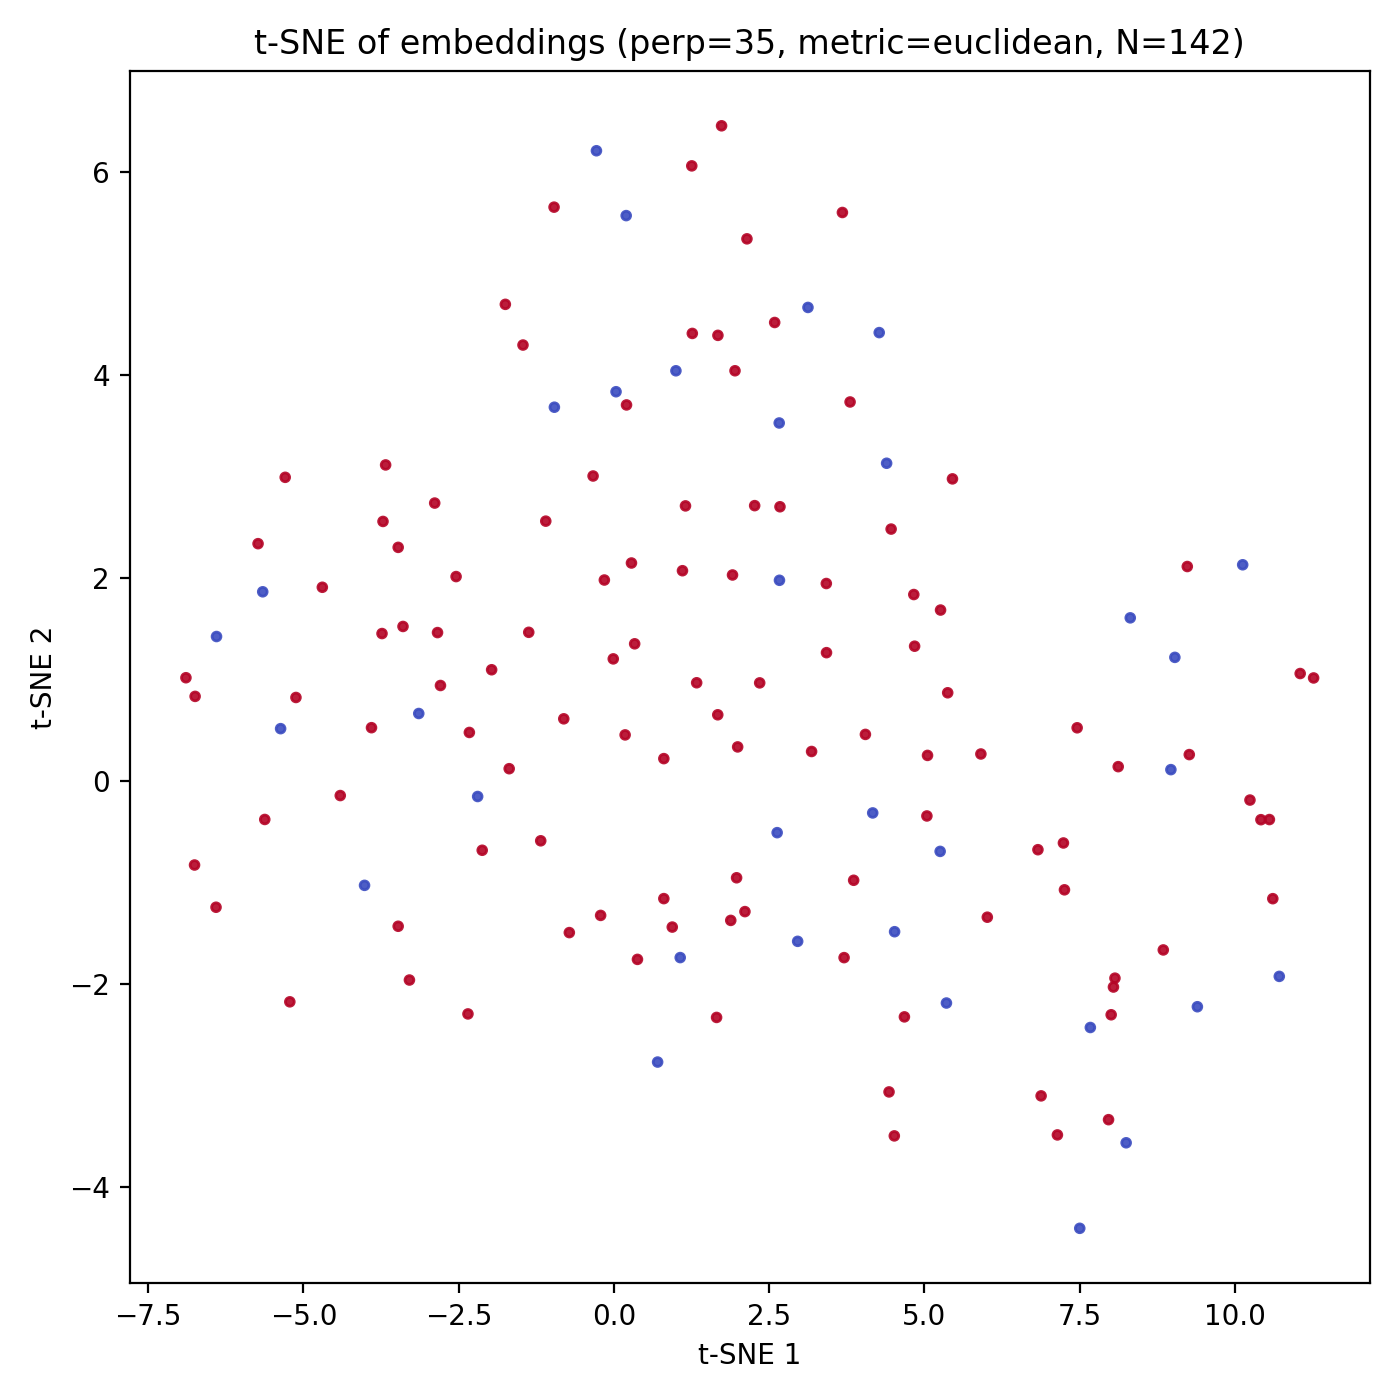
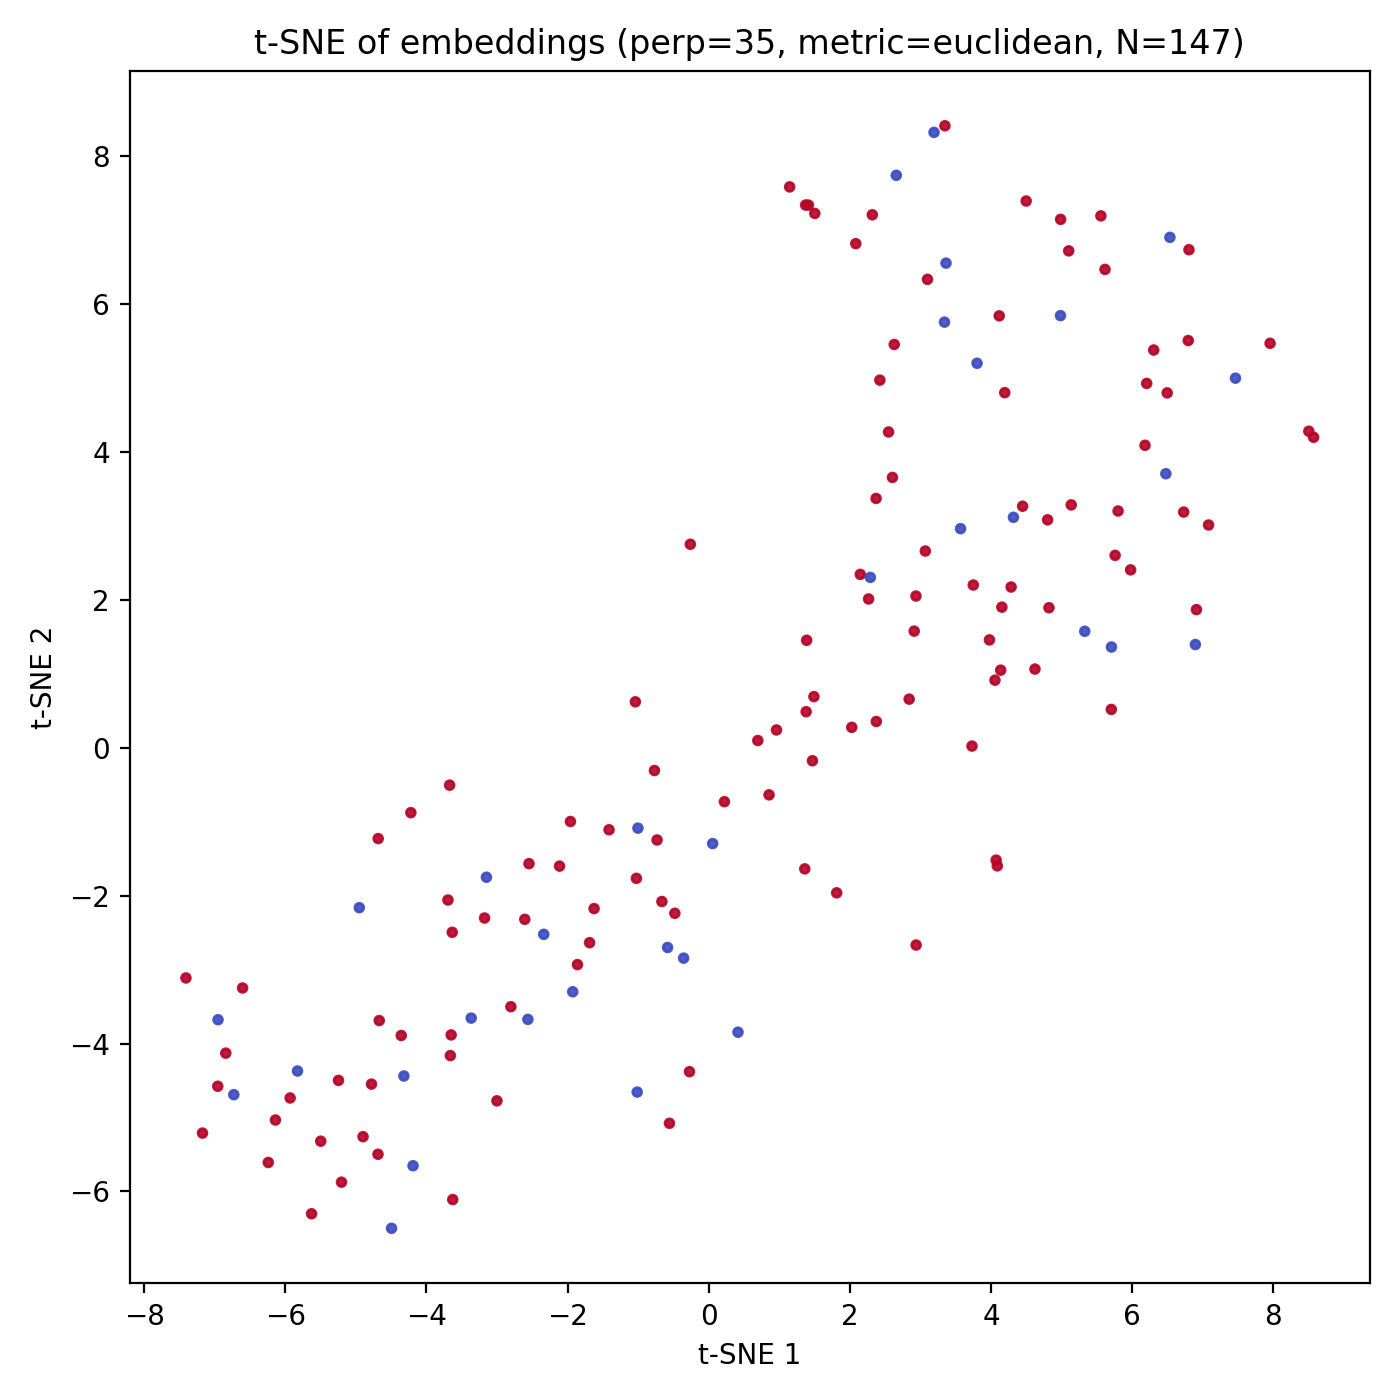
taskwise diagnosis

diff --git a/task_wise_diagnosis.py b/task_wise_diagnosis.py
@@ -1,3 +1,4 @@
+
 # diagnose_prelbd.py
 # -*- coding: utf-8 -*-
 
@@ -496,76 +497,63 @@ def make_full_report(
     if "umap_neighbor_overlap@10" in proj:
         print(f"  UMAP neighbor overlap@10:   {proj['umap_neighbor_overlap@10']:.3f}")
     print(f"  Saved: {outdir}/diagnostic_metrics.(npz|csv|json), dendrogram & heatmap PNGs")
+def process_one_pkl(pkl_path: Path, args):
+    """
+    Run the full pipeline for a single task pickle and write results to
+    <args.outdir>/<task_name>/...
+    """
+    task_name = pkl_path.parent.name  # e.g., "3_2"
+    outdir = Path(args.outdir) / task_name
+    outdir.mkdir(parents=True, exist_ok=True)
 
-# -----------------------------
-# Main
-# -----------------------------
-def main():
-    ap = argparse.ArgumentParser(description="DOLPHIN → diagnostic embeddings → t-SNE/UMAP + LR CV")
-    ap.add_argument("--pkl", type=str, required=True, help="Path to PRELBD-tf.pkl (joblib or pickle).")
-    ap.add_argument("--cols", type=str, default="0,1,6", help="Indices for (x,y,p), e.g. '0,1,6'.")
-    ap.add_argument("--batch", type=int, default=32)
-    ap.add_argument("--aggregate", action="store_true", help="Average embeddings per subject before plots (tsne/umap).")
-    ap.add_argument("--report_subject_level", action="store_true",
-                    help="Generate the report on subject-level means instead of per-sample.")
-    ap.add_argument("--tsne", action="store_true", help="Make a t-SNE plot.")
-    ap.add_argument("--umap", action="store_true", help="Make a UMAP plot (requires umap-learn).")
-    ap.add_argument("--outdir", type=str, default="./outs_prelbd")
-    ap.add_argument("--ckpt", type=str, default=None, help="Optional model checkpoint to load (strict=False).")
-    ap.add_argument("--device", type=str, default="cuda" if torch.cuda.is_available() else "cpu")
-    ap.add_argument("--cv", type=int, default=5, help="Stratified K-fold for the diagnostic classifier in report.")
-    args = ap.parse_args()
-
-    pkl_path = Path(args.pkl); assert pkl_path.exists(), f"Missing: {pkl_path}"
-    cols = tuple(int(x) for x in args.cols.split(","))
-    outdir = Path(args.outdir); outdir.mkdir(parents=True, exist_ok=True)
-
-    print(f"[Load] {pkl_path}")
+    print(f"\n[Task] {task_name}  |  PKL: {pkl_path}")
     data = load_any_pkl(pkl_path)
 
     # dataset & loader
+    cols = tuple(int(x) for x in args.cols.split(","))
     ds = WritingDiagnostic(data)
-    print(f"Subjects (unique): {len(np.unique(ds.subject_ids))} | Samples: {len(ds)} | Label ratio (1's): {ds.labels.mean():.3f}")
+    print(f"  Subjects: {len(np.unique(ds.subject_ids))} | Samples: {len(ds)} | Label ratio(1): {ds.labels.mean():.3f}")
 
-    loader = DataLoader(ds, batch_size=args.batch, shuffle=False, num_workers=0,
-                        collate_fn=lambda b: collate_fn_dolphin(b, cols=cols))
+    loader = DataLoader(
+        ds,
+        batch_size=args.batch,
+        shuffle=False,
+        num_workers=0,
+        collate_fn=lambda b: collate_fn_dolphin(b, cols=cols)
+    )
 
-    # model
+    # model (embeddings only; logits unused)
     num_classes_dummy = 1000
     model = DOLPHIN(d_in=3, num_classes=num_classes_dummy)
     if args.ckpt:
         ckpt = torch.load(args.ckpt, map_location=args.device)
         state = ckpt.get("model", ckpt)
         model.load_state_dict(state, strict=False)
-        print("[Model] Loaded checkpoint with strict=False")
+        print("  [Model] Loaded checkpoint with strict=False")
     model = model.to(args.device).eval()
 
     # embeddings
     X, y, subs = extract_embeddings(model, loader, device=args.device)
+
+    # optional aggregation ONLY for visualization plots here
     if args.aggregate:
-        # this aggregation is ONLY for visualization; the report has its own subject_level switch
         X_vis, y_vis, subs_vis = aggregate_by_subject_mean(X, y, subs)
-        print(f"[Aggregate] Visualization per subject: {X_vis.shape[0]} vectors")
+        print(f"  [Aggregate-plot] Per subject vectors: {X_vis.shape[0]}")
     else:
         X_vis, y_vis, subs_vis = X, y, subs
 
-    # plots
+    # plots (saved inside this task's subdir)
     if args.tsne:
         plot_tsne(X_vis, y_vis, save_path=outdir / ("tsne_subjects.png" if args.aggregate else "tsne_samples.png"))
     if args.umap:
         plot_umap(X_vis, y_vis, save_path=outdir / ("umap_subjects.png" if args.aggregate else "umap_samples.png"))
 
-    # legacy quick classifier on the same representation you plotted
+    # quick classifier on the plotted representation (legacy preview)
     bal_acc, cm, sens, spec = evaluate_classifier(X_vis, y_vis, cv=5, C=1.0, seed=0)
-    tn, fp, fn, tp = cm.ravel()
-    print("\n=== Diagnostic CV on plotted representation ===")
-    print(f"Balanced accuracy: {bal_acc*100:.2f}%")
-    print(f"Sensitivity (TPR, class=1): {sens*100:.2f}%")
-    print(f"Specificity (TNR, class=0): {spec*100:.2f}%")
-    print("Confusion matrix [[TN FP][FN TP]]:\n", cm)
-    np.savez(outdir / "metrics.npz", bal_acc=bal_acc, cm=cm, sens=sens, spec=spec)
+    np.savez(outdir / "metrics_preview.npz", bal_acc=bal_acc, cm=cm, sens=sens, spec=spec)
+    print(f"  [Preview CV] BA={bal_acc*100:.2f}%  Sens={sens*100:.2f}%  Spec={spec*100:.2f}%")
 
-    # ===== NEW: full report (independent of plotting aggregation) =====
+    # full report (independent of plot aggregation)
     make_full_report(
         X, y, subs,
         outdir=str(outdir),
@@ -573,6 +561,47 @@ def main():
         cv=args.cv
     )
 
+
+# -----------------------------
+# Main
+# -----------------------------
+def main():
+    ap = argparse.ArgumentParser(description="DOLPHIN → diagnostic embeddings → t-SNE/UMAP + LR CV")
+
+    # EITHER point to a single pickle...
+    ap.add_argument("--pkl", type=str, help="Path to a single PRELBD *-tf.pkl (joblib or pickle).")
+    # ...OR a root folder containing many task pickles
+    ap.add_argument("--pkl_root", type=str,
+                    help="Root directory to auto-discover task pickles (searches for **/*-tf.pkl).")
+
+    ap.add_argument("--cols", type=str, default="0,1,6", help="Indices for (x,y,p), e.g. '0,1,6'.")
+    ap.add_argument("--batch", type=int, default=32)
+    ap.add_argument("--aggregate", action="store_true", help="Average embeddings per subject before plots (tsne/umap).")
+    ap.add_argument("--report_subject_level", action="store_true",
+                    help="Generate the report on subject-level means instead of per-sample.")
+    ap.add_argument("--tsne", action="store_true", help="Make a t-SNE plot.")
+    ap.add_argument("--umap", action="store_true", help="Make a UMAP plot (requires umap-learn).")
+    ap.add_argument("--outdir", type=str, default="./outs_prelbd_tasks",
+                    help="Base output directory (per-task subfolders will be created when using --pkl_root).")
+    ap.add_argument("--ckpt", type=str, default=None, help="Optional model checkpoint to load (strict=False).")
+    ap.add_argument("--device", type=str, default="cuda" if torch.cuda.is_available() else "cpu")
+    ap.add_argument("--cv", type=int, default=5, help="Stratified K-fold for the diagnostic classifier in report.")
+    args = ap.parse_args()
+
+    if args.pkl_root:
+        root = Path(args.pkl_root); assert root.exists(), f"Missing pkl_root: {root}"
+        # discover all *-tf.pkl under pkl_root
+        pkls = sorted(root.rglob("*-tf.pkl"))
+        if not pkls:
+            raise FileNotFoundError(f"No *-tf.pkl files found under {root}")
+        print(f"[Batch] Found {len(pkls)} task pickles under {root}")
+        for p in pkls:
+            process_one_pkl(p, args)
+    else:
+        # fall back to single-file mode (old behavior)
+        if not args.pkl:
+            raise SystemExit("Provide either --pkl <file> or --pkl_root <dir>.")
+        pkl_path = Path(args.pkl); assert pkl_path.exists(), f"Missing: {pkl_path}"
+        process_one_pkl(pkl_path, args)
 if __name__ == "__main__":
-# call python diagnose_prelbd.py --pkl ./data/LBD_CZ_002/LBD_CZ_002-tf.pkl --batch 1 --report_subject_level --tsne --umap --outdir ./out_prelbd
     main()
